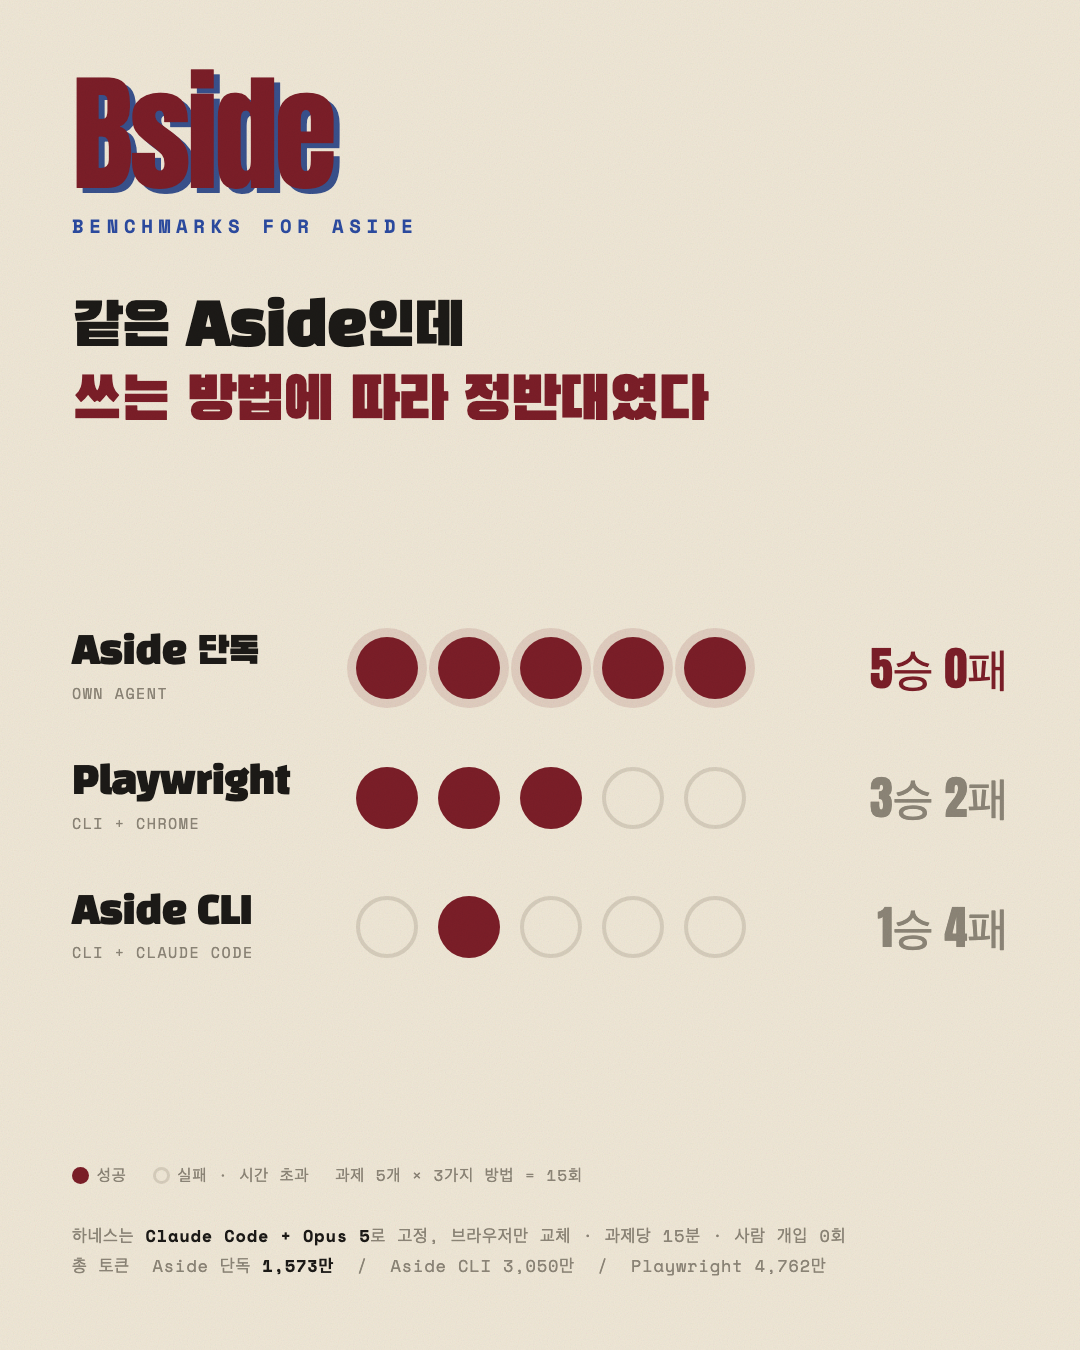
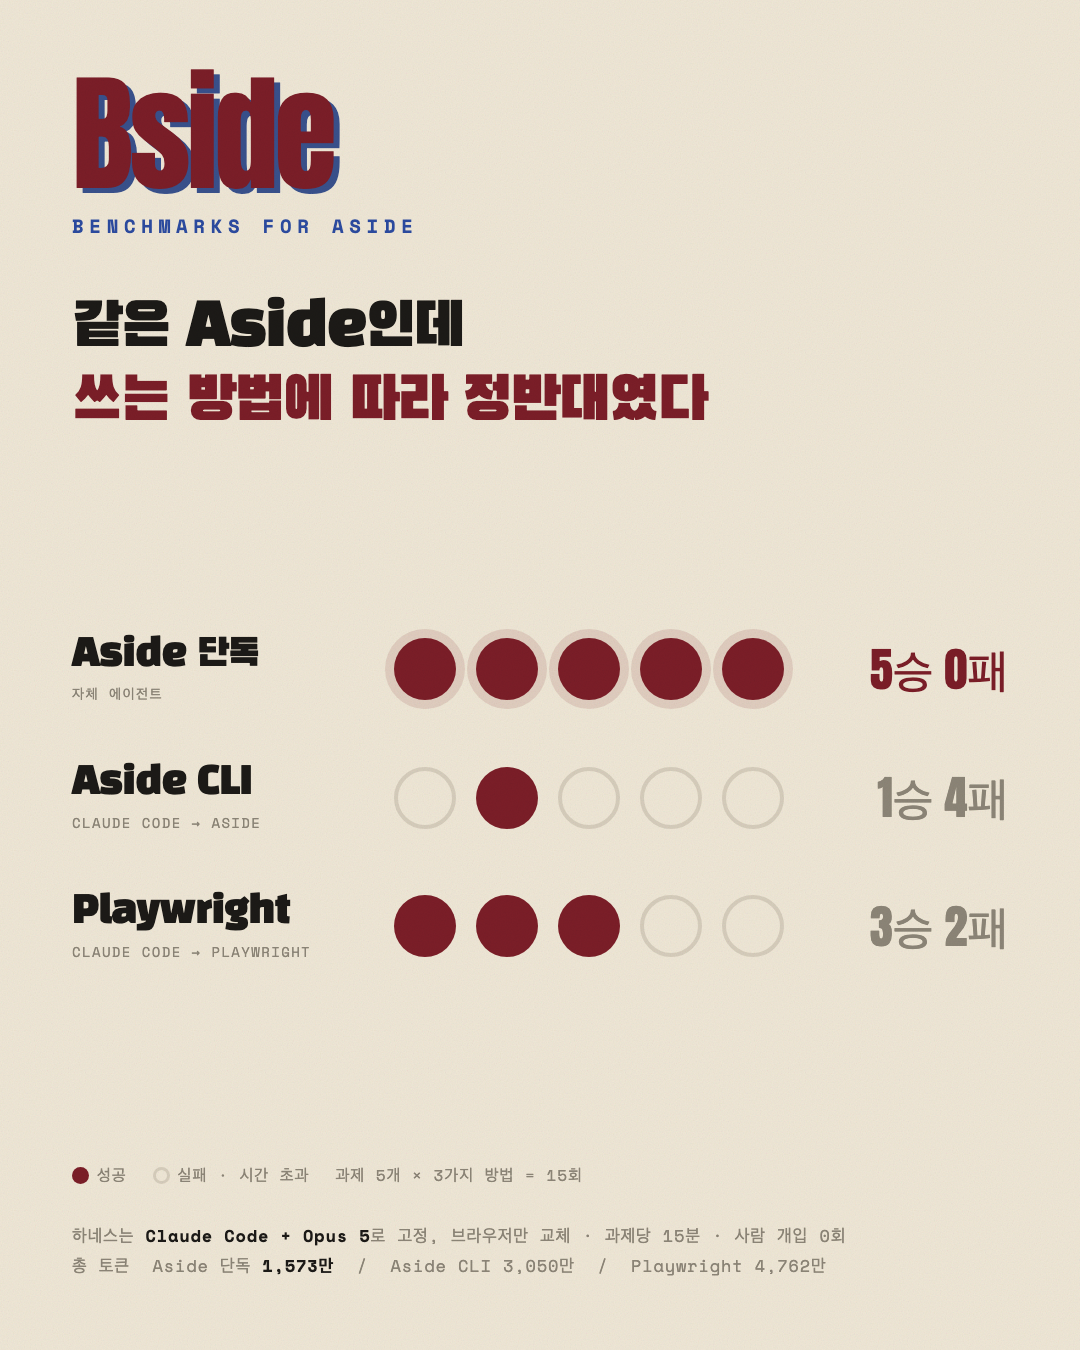
Card: group the two Aside rows and label each harness accurately

diff --git a/assets/result-card.html b/assets/result-card.html
@@ -30,9 +30,9 @@
   /* rows */
   .rows{margin-top:auto;margin-bottom:auto;display:flex;flex-direction:column;gap:58px}
   .row{display:flex;align-items:center;gap:34px}
-  .who{width:250px}
+  .who{width:288px}
   .who .n{font-family:'Black Han Sans',sans-serif;font-size:38px;letter-spacing:-.02em;line-height:1.15}
-  .who .t{margin-top:6px;font-family:'Space Mono',monospace;font-size:15px;letter-spacing:.1em;color:var(--mute)}
+  .who .t{margin-top:6px;font-family:'Space Mono',monospace;font-size:14px;letter-spacing:.1em;color:var(--mute)}
   .dots{display:flex;gap:20px;flex:1}
   .d{width:62px;height:62px;border-radius:50%}
   .d.win{background:var(--ox)}
@@ -58,7 +58,7 @@
 
 <div class="rows">
   <div class="row">
-    <div class="who"><div class="n">Aside 단독</div><div class="t">OWN AGENT</div></div>
+    <div class="who"><div class="n">Aside 단독</div><div class="t">자체 에이전트</div></div>
     <div class="dots">
       <div class="d win hero"></div><div class="d win hero"></div><div class="d win hero"></div><div class="d win hero"></div><div class="d win hero"></div>
     </div>
@@ -66,19 +66,19 @@
   </div>
 
   <div class="row">
-    <div class="who"><div class="n">Playwright</div><div class="t">CLI + CHROME</div></div>
-    <div class="dots">
-      <div class="d win"></div><div class="d win"></div><div class="d win"></div><div class="d lose"></div><div class="d lose"></div>
-    </div>
-    <div class="rec">3승 2패</div>
-  </div>
-
-  <div class="row">
-    <div class="who"><div class="n">Aside CLI</div><div class="t">CLI + CLAUDE CODE</div></div>
+    <div class="who"><div class="n">Aside CLI</div><div class="t">CLAUDE CODE → ASIDE</div></div>
     <div class="dots">
       <div class="d lose"></div><div class="d win"></div><div class="d lose"></div><div class="d lose"></div><div class="d lose"></div>
     </div>
     <div class="rec">1승 4패</div>
+  </div>
+
+  <div class="row">
+    <div class="who"><div class="n">Playwright</div><div class="t">CLAUDE CODE → PLAYWRIGHT</div></div>
+    <div class="dots">
+      <div class="d win"></div><div class="d win"></div><div class="d win"></div><div class="d lose"></div><div class="d lose"></div>
+    </div>
+    <div class="rec">3승 2패</div>
   </div>
 </div>
 
